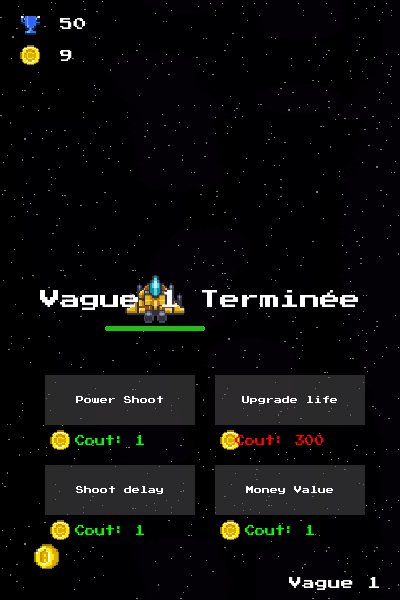
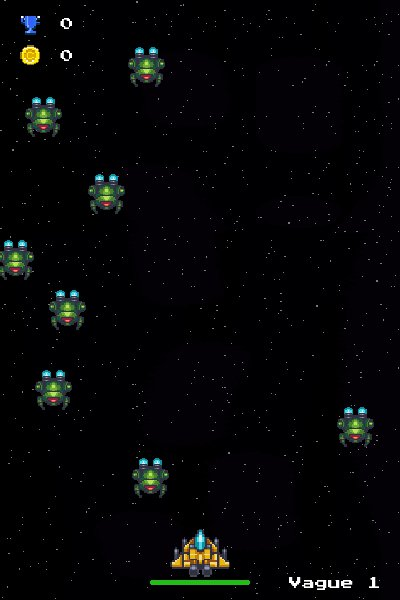
amélioration graphique

diff --git a/main.py b/main.py
@@ -755,7 +755,7 @@ def main_menu():
         Prec_Score_TEXT = get_font(12).render(("Score Précédent : "+ saveread("prec")), True, "white")
         Prec_Score_RECT = Prec_Score_TEXT.get_rect(topleft=(100, 493))
         SESSION_TEXT = get_font(12).render(nom_session, True, "white")
-        SESSION_RECT = SESSION_TEXT.get_rect(bottomleft=(40, 580))
+        SESSION_RECT = SESSION_TEXT.get_rect(bottomleft=(45, 578))
         DELETE_BUTTON = Button(image=trashimg, pos=(25, 570), text_input="", font=get_font(12), base_color="White", hovering_color="Green")
         screen.blit(MENU_TEXT, MENU_RECT)
         screen.blit(Best_Score_TEXT, Best_Score_RECT)
@@ -783,8 +783,6 @@ def main_menu():
                 if DELETE_BUTTON.checkForInput(MENU_MOUSE_POS) :
                     with open('initialisation.txt',"w") as f:
                         f.write("0\n0\n0\n0\n0\n0\n")
-                        f.close()
-                    os.remove(nom_session+'.txt')
                     nom_session = "initialisation"
                     session()
                 if QUIT_BUTTON.checkForInput(MENU_MOUSE_POS):
@@ -849,6 +847,9 @@ def jeu():
 
         dt = clock.tick(2000)
         time = dt/1000
+
+        print(clock.get_fps())
+
         if pause != 1:
             y_background += 0.25
         if y_background < 600 :
@@ -893,8 +894,7 @@ def jeu():
         screen.blit(Score_TEXT, Score_RECT)
         screen.blit(Vague_TEXT, Vague_RECT)
         screen.blit(Money_TEXT, Money_RECT)
-        
-        #récupérer tout les projectiles du joueur #
+
         for projectile in game.player.all_projectiles :
             projectile.move(time)
 
@@ -909,6 +909,19 @@ def jeu():
         elif count<15 and pause == 0:
             game.spawn_monster()
         elif count==15 and len(game.all_monsters)==0:
+            COUT_POWER_TEXT = get_font(10).render((str(cost_power)), True, color1 )
+            COUT_POWER_RECT = COUT_POWER_TEXT.get_rect(topleft=(120,436 ))
+            COUT_LIFE_TEXT = get_font(10).render((str(cost_life)), True, color2 )
+            COUT_LIFE_RECT = COUT_LIFE_TEXT.get_rect(topleft=(290,436 ))
+            COUT_DELAY_TEXT = get_font(10).render((str(cost_delay)), True, color3 )
+            COUT_DELAY_RECT = COUT_DELAY_TEXT.get_rect(topleft=(120,525 ))
+            COUT_EARNING_TEXT = get_font(10).render((str(cost_earning)), True, color4 )
+            COUT_EARNING_RECT = COUT_EARNING_TEXT.get_rect(topleft=(290,525 ))
+            screen.blit(COUT_POWER_TEXT, COUT_POWER_RECT)
+            screen.blit(COUT_LIFE_TEXT, COUT_LIFE_RECT)
+            screen.blit(COUT_DELAY_TEXT, COUT_DELAY_RECT)
+            screen.blit(COUT_EARNING_TEXT, COUT_EARNING_RECT)        
+
             VagueFinish_TEXT = get_font(20).render(("Vague "+str(vague)+" Terminée"), True, "White" )
             VagueFinish_RECT = VagueFinish_TEXT.get_rect(center=(200,300 ))
             screen.blit(VagueFinish_TEXT, VagueFinish_RECT)
@@ -917,25 +930,18 @@ def jeu():
             LIFE_BUTTON = Button(image=buttonimg, pos=(290, 400), text_input="Upgrade life", font=get_font(8), base_color="White", hovering_color=color2)
             SHOOT_DELAY_BUTTON = Button(image=buttonimg, pos=(120, 490), text_input="Shoot delay", font=get_font(8), base_color="White", hovering_color=color3)
             EARNING_BUTTON = Button(image=buttonimg, pos=(290, 490), text_input="Money Value", font=get_font(8), base_color="White", hovering_color=color4)
-            screen.blit(money,(50,430))
-            screen.blit(money,(50,520))
-            screen.blit(money,(220,430))
-            screen.blit(money,(220,520))
-            COUT_POWER_TEXT = get_font(10).render(("Cout: "+str(cost_power)), True, color1 )
-            COUT_POWER_RECT = COUT_POWER_TEXT.get_rect(center=(110,440 ))
-            COUT_LIFE_TEXT = get_font(10).render(("Cout: "+str(cost_life)), True, color2 )
-            COUT_LIFE_RECT = COUT_LIFE_TEXT.get_rect(center=(280,440 ))
-            COUT_DELAY_TEXT = get_font(10).render(("Cout: "+str(cost_delay)), True, color3 )
-            COUT_DELAY_RECT = COUT_DELAY_TEXT.get_rect(center=(110,530 ))
-            COUT_EARNING_TEXT = get_font(10).render(("Cout: "+str(cost_earning)), True, color4 )
-            COUT_EARNING_RECT = COUT_EARNING_TEXT.get_rect(center=(280,530 ))
-            screen.blit(COUT_POWER_TEXT, COUT_POWER_RECT)
-            screen.blit(COUT_LIFE_TEXT, COUT_LIFE_RECT)
-            screen.blit(COUT_DELAY_TEXT, COUT_DELAY_RECT)
-            screen.blit(COUT_EARNING_TEXT, COUT_EARNING_RECT)
+            screen.blit(money,(93,430))
+            screen.blit(money,(93,520))
+            screen.blit(money,(263,430))
+            screen.blit(money,(263,520))                  
+            
             for button in [POWER_SHOOT_BUTTON,LIFE_BUTTON,SHOOT_DELAY_BUTTON,EARNING_BUTTON]:
-                button.changeColor(VAGUE_MOUSE_POS)
-                button.update(screen)   
+                    button.changeColor(VAGUE_MOUSE_POS)
+                    button.update(screen)   
+
+            #récupérer tout les projectiles du joueur #
+
+  
             if game.player.money >= cost_power :
                 color1="Green"
             if game.player.money < cost_power :
